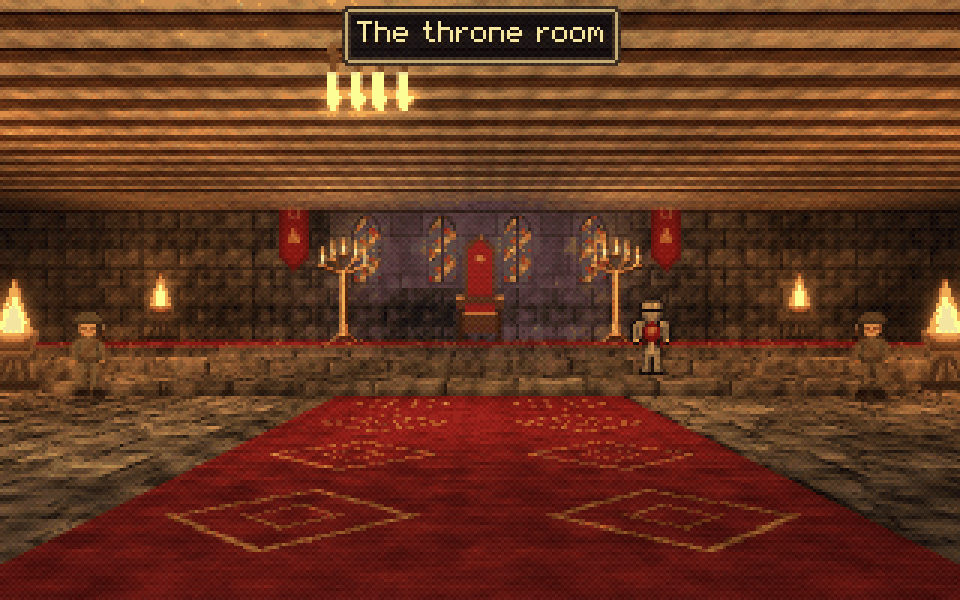
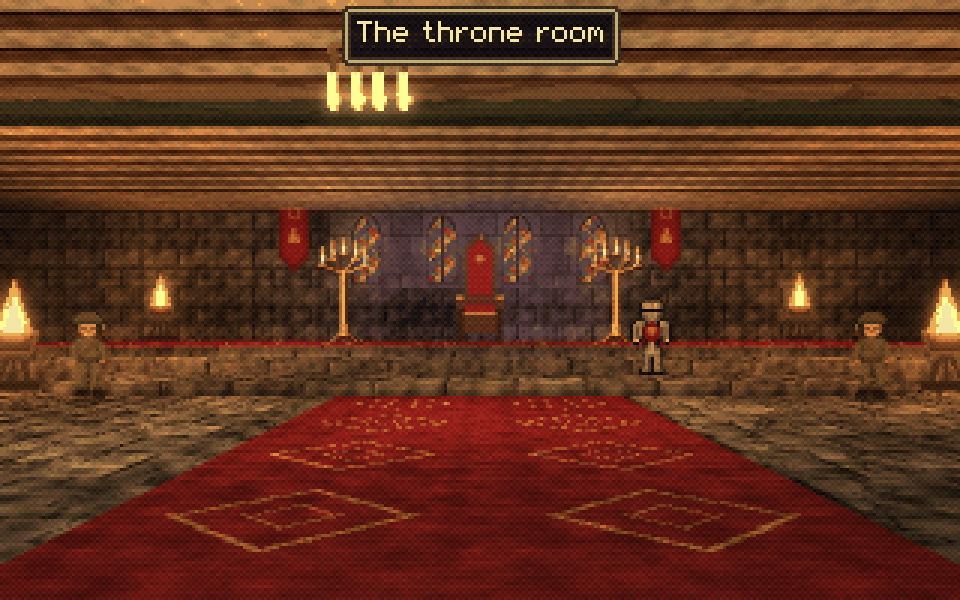
The castle's great hall on round pillars and timber beams
The throne room's pillars were square wall cells, out of both gallery
shots. They are round now - twelve-sided columns of dressed stone with
bases and capitals - with timber beams across the hall over them under
the ceiling. The throne shot keeps its framing (two beams now cross its
ceiling, and the light falls a little differently with the old pillar
walls gone); a new shot, castle_hall, from the hall's foot, has the
pillars and beams framing the throne. The castle has no scatter, so a
new shot moves nothing.

Changed region(s): [[0.0, 0.12, 1.0, 0.21]]

diff --git a/examples/castle_keep.py b/examples/castle_keep.py
@@ -2,7 +2,8 @@
 
 Shows true block heights (the dais and its steps come from the `heights` layer), see-through
 walls (the portcullis and the cell bars), stacked wall storeys (stained glass above stone),
-contact shadows and look_at framing. Run:  python castle_keep.py  -> writes castle_keep.json
+contact shadows and look_at framing; the hall's pillars are round in 3D (`column` objects of `ashlar`,
+with bases and capitals) and timber beams cross the hall over them under the ceiling (`beam`s). Run:  python castle_keep.py  -> writes castle_keep.json
 """
 import os
 import sys
@@ -16,8 +17,12 @@ g = Grid(24, 34, fill='#')
 g.room(1, 1, 22, 20, '#', '.')                       # the throne room
 for y in (4, 8, 12, 16):
     g.put(1, y, 'W'); g.put(22, y, 'W')               # stained glass high in both long walls
-for (x, y) in ((6, 7), (6, 11), (6, 15), (17, 7), (17, 11), (17, 15)):
-    g.put(x, y, 'C')                                  # pillars
+PILLARS = [(6.5, 7.5), (6.5, 11.5), (6.5, 15.5), (17.5, 7.5), (17.5, 11.5), (17.5, 15.5)]
+hall = [{'type': 'column', 'x': x, 'y': y, 'material': 'ashlar', 'sides': 12, 'radius': 0.3, 'height': 2.0,
+         'base': 0.18, 'capital': 0.16, 'sink': 0.0, 'seed': k} for k, (x, y) in enumerate(PILLARS)]   # pillars
+for k, y in enumerate((7.5, 11.5, 15.5)):              # beams across the hall, resting on them
+    hall.append({'type': 'beam', 'x': 12.0, 'y': y, 'z': 1.8, 'angle': 0, 'length': 21.0, 'width': 0.26,
+                 'depth': 0.2, 'material': 'wood', 'seed': 10 + k})
 g.rect(7, 2, 16, 4, 'D')                              # the dais...
 g.rect(8, 5, 15, 5, 'E')                              # ...and its two steps
 g.rect(9, 6, 14, 6, 'E')
@@ -49,7 +54,6 @@ s = scene(
         '#': {'wall': 'castle', 'h': 2.0},
         'W': {'wall': ['castle', 'stained_glass'], 'h': 2.0},
         'G': {'wall': ['castle', 'stained_glass'], 'h': 2.0},
-        'C': {'wall': 'castle', 'h': 2.0},
         '.': {'floor': 'flagstone', 'ceil': 'beams'},
         'r': {'floor': 'carpet', 'ceil': 'beams'},
         'D': {'wall': 'castle', 'top': 'carpet'},
@@ -87,6 +91,7 @@ s = scene(
         {'x': 10.4, 'y': 3.4, 'z': 1.4, 'radius': 3.5, 'color': [1.0, 0.72, 0.4], 'intensity': 0.9},  # the candelabras
         {'x': 13.6, 'y': 3.4, 'z': 1.4, 'radius': 3.5, 'color': [1.0, 0.72, 0.4], 'intensity': 0.9},
     ],
+    objects=hall,
     sprites=[
         {'x': 12.0, 'y': 2.9, 'type': 'throne', 'scale': 1.3},                     # on the dais
         {'x': 9.6, 'y': 2.3, 'type': 'banner', 'z': 0.9, 'scale': 1.1},              # banners either side of it
@@ -136,6 +141,7 @@ s = scene(
          'overlays': [{'type': 'prompt', 'key': 'E', 'text': 'Raise the portcullis'}]},
         {'x': 11.2, 'y': 25.6, 'look_at': [8.45, 24.6, 0.42], 'fov': 62,
          'post': [{'fx': 'vignette', 'strength': 0.55}]},
+        {'x': 12.0, 'y': 18.6, 'look_at': [12.0, 3.0, 0.9], 'fov': 66, 'post': [GLOW]},   # the hall, from its foot
     ],
     contact_shadows=0.55,
     supersample=2,

diff --git a/docs/build_gallery.py b/docs/build_gallery.py
@@ -96,6 +96,7 @@ SHOTS = {
     'bunker_crt': ('bunker_lab', 3),
     'castle_throne': ('castle_keep', 1),
     'castle_gate': ('castle_keep', 4),
+    'castle_hall': ('castle_keep', 6),
     'chapel_yard': ('chapel_graveyard', 1),
     'chapel_nave': ('chapel_graveyard', 3),
     'cave_beast': ('crystal_cave', 3),

diff --git a/docs/ASSETS.md b/docs/ASSETS.md
@@ -913,8 +913,8 @@ Things too big for a billboard, built in 3D out of flat panels (`scripts/objects
 | `noodle_stand` | good | neon_street | Counter, awning, valance, noren and sign as panels; bowls, pot, tray, lanterns and stools as billboards, with its own lamp and lantern lights. |
 | `rock_wall` | good | aquarium, crystal_cave, ghost_town, gold_mine, neon_bar, red_canyon | Laid out as the user drew it: overlapping pieces along a wall's foot, each in plan a rounded mass of a few broad faces jutting from the wall (the user's sharper zigzag read as spikes; a few spikes and notches are left), each its own height, a trim of faces along its top cut by one long smooth wavy edge, a flat top (inset a texel, so it never shows past the faces), plants on the rim. Kinds `stone`, `reef`, `sandstone`, `snow`, `cave`, `lumen` (glowing moss); `lining` lines every wall face of some map cells. The faces cut from one solid block of stone. Seen from above its tops are flat with the trim standing round them, as Build's were. |
 | `boulder` | good | aquarium, autumn_lane, coast_lighthouse, crystal_cave, kelp_forest, misty_moor, neon_bar, red_canyon, winter_lake, winter_woods, woodland_night | A low-poly mass, every face a triangle: an irregular foot, a belly, drawn-in shoulders, a peak off its centre; closed from every side. Plants on top by count. |
-| `column` | good | ancient_ruins, cathedral_ruin, gold_mine, hall_of_doors, sky_islands, temple_inside, tropical_beach | A column or a post: a prism of `sides` faces (an octagon by default), tapering if `top` is under 1, a plinth (`base`) and a capital if asked; stone cut from the solid rock as rock is, or `wood` - weathered timber, the grain running up it, dark and grown over below `wet` where it stands in water. Built for the pier's piles first; the cathedral's piers are `ashlar` (dressed stone in drums) with plinths and capitals, one `broken` off ragged. The ruins' columns are Greek: `flutes` (20 faces, each hollowed, so it takes the light on one side and shadow on the other) and `doric` (an echinus widening under a square abacus), in `marble` laid in drums; `fill` lifts a backlit column's dark side. |
-| `beam` | good | ancient_ruins, cathedral_ruin, drowned_library, gold_mine, hall_of_doors, sky_islands, temple_inside | A squared timber or stone lintel lying level, `length` along the way it faces, its underside at the placement's `z`; timber's grain runs along it. Wall plates on the cathedral's piers, and one fallen on the floor; the architraves and cornices over the ruins' columns. |
+| `column` | good | ancient_ruins, castle_keep, cathedral_ruin, gold_mine, hall_of_doors, sky_islands, temple_inside, tropical_beach | A column or a post: a prism of `sides` faces (an octagon by default), tapering if `top` is under 1, a plinth (`base`) and a capital if asked; stone cut from the solid rock as rock is, or `wood` - weathered timber, the grain running up it, dark and grown over below `wet` where it stands in water. Built for the pier's piles first; the cathedral's piers are `ashlar` (dressed stone in drums) with plinths and capitals, one `broken` off ragged. The ruins' columns are Greek: `flutes` (20 faces, each hollowed, so it takes the light on one side and shadow on the other) and `doric` (an echinus widening under a square abacus), in `marble` laid in drums; `fill` lifts a backlit column's dark side. |
+| `beam` | good | ancient_ruins, castle_keep, cathedral_ruin, drowned_library, gold_mine, hall_of_doors, sky_islands, temple_inside | A squared timber or stone lintel lying level, `length` along the way it faces, its underside at the placement's `z`; timber's grain runs along it. Wall plates on the cathedral's piers, and one fallen on the floor; the architraves and cornices over the ruins' columns. |
 | `crystal_cluster` | good | crystal_cave | The user's idea: crystals whose facets refract. Hexagonal prisms with pointed tips from a bed of rock, every facet a panel with its own clarity (clear across the middle, milky toward the base, bright edges) and its own bend: drawn with the glass, each facet shows the frame drawn so far shifted by one offset from the way it is turned (Renderer._bend), so it shows one coherent piece of what is behind, the colours parting a little at the edges. Strongest with glowing things behind. |
 
 ### Not yet sorted
@@ -1104,7 +1104,7 @@ The environments, judged on their gallery images and shots.
 
 | scene | status | shots | gallery | notes |
 |---|---|---|---|---|
-| `castle_keep` | good | 5 | castle_throne, castle_gate | The throne hall closer: a great stained-glass window, banners and candelabras behind a larger throne, guards at the steps, the knight to one side. |
+| `castle_keep` | good | 6 | castle_throne, castle_gate, castle_hall | The throne hall closer: a great stained-glass window, banners and candelabras behind a larger throne, guards at the steps, the knight to one side. The hall's square pillars are round in 3D (`column`s of `ashlar`, bases and capitals) with timber beams across the hall over them; a sixth shot, `castle_hall`, takes them in from the hall's foot. |
 | `cathedral_ruin` | good | 3 | cathedral_beam, cathedral_pilgrim | The beam through the fallen roof, rafters still spanning the hole with ivy hanging from it, column drums and rubble in the light; shot from the aisle. |
 | `crystal_cave` | good | 5 | cave_beast, crystal_cave, crystal_violet, crystal_close | Rebuilt round crystal clusters that refract: a great cavern with a lake of glowing water, the great crystal on its island, clusters round the walls, the walls lined with cave rock and glowing-moss rock, the glowing jungle's plants along the shore; the survey robot and the beast wading before the great crystal. |
 
@@ -1159,6 +1159,7 @@ The environments, judged on their gallery images and shots.
 ## Pass log
 
 - **2026-10-19, pass 0.** First full review of every asset, on review sheets and in the gallery. This file and `docs/asset_review.py` were added.
+- **2026-10-21, the great hall.** The castle's throne room had square pillars of wall cells, out of both gallery shots. They are round now - 12-sided `column`s of `ashlar` with bases and capitals - with timber `beam`s across the hall over them under the ceiling; the throne shot is kept as it was, and a new one, `castle_hall`, from the hall's foot, has the pillars and beams framing the throne (the castle has no scatter, so a new shot moves nothing).
 - **2026-10-21, the cabin on the ice.** The winter lake's cabin, a flat-topped box, wears a roof under snow (`snow` cover, new: `_snow_roof` - drifts, the shingles at the ridge, a lip at the eave) with grey wood smoke rising from its chimney, and the blocks round the shore are `boulder`s of `snow` rock; a new shot, `winter_cabin`, close by day, turned by angle and pitch so the scatter stays. The window lamps lit the roof's top in scallops - the lamps' light is mapped on the floor, so anything over them takes it all - so a roof's top takes a quarter of it (`dyn` on a panel, `ROOF_LAMPS`): the village's inn at night and the ghost town at dusk have darker, moonlit roofs over their lit fronts.
 - **2026-10-21, roofs for the old houses.** The haunted house and the churchyard chapel were flat-topped boxes - the village's fault, the user's word was 'roofless'. Both have steep roofs of `slate` in 3D (a new cover: dark blue-grey, narrow courses): the house's with two brick chimneys (`chimney` takes a list; chimneys grow stouter on a bigger roof) and the tower's own gable, the chapel's with its front gable in pale stone (`ends`, new: gable ends of a rock kind). Inside, the ceilings hide the roofs: the interior shots are unchanged to the pixel.
 - **2026-10-21, the wreck.** After the user's list and the fantasy refresh, a look over the scenes not touched today: the kelp forest's wreck was a ring of plank walls round a low block, its rock outcrops blocks too. A new object, `ship_hull` - planked and ribbed, stern, curving sides, a bow whose stem sweeps up, `heel` and `broken` - lies listing in the sand turned toward the cameras (broadside on, at first, it read as a wall), and the outcrops are boulders of live reef rock.

diff --git a/README.md b/README.md
@@ -349,6 +349,8 @@ A castle keep with its throne on a stepped dais and a portcullis you can see thr
 | | |
 |---|---|
 | ![The throne room on its raised dais](docs/gallery/castle_throne.png) | ![The portcullis: a see-through wall](docs/gallery/castle_gate.png) |
+
+![The great hall from its foot: round pillars of dressed stone and timber beams framing the throne](docs/gallery/castle_hall.png)
 | ![The churchyard under the moon, with a treeline skyline](docs/gallery/chapel_yard.png) | ![The nave: stained glass and a stepped altar](docs/gallery/chapel_nave.png) |
 
 ### Encounters
